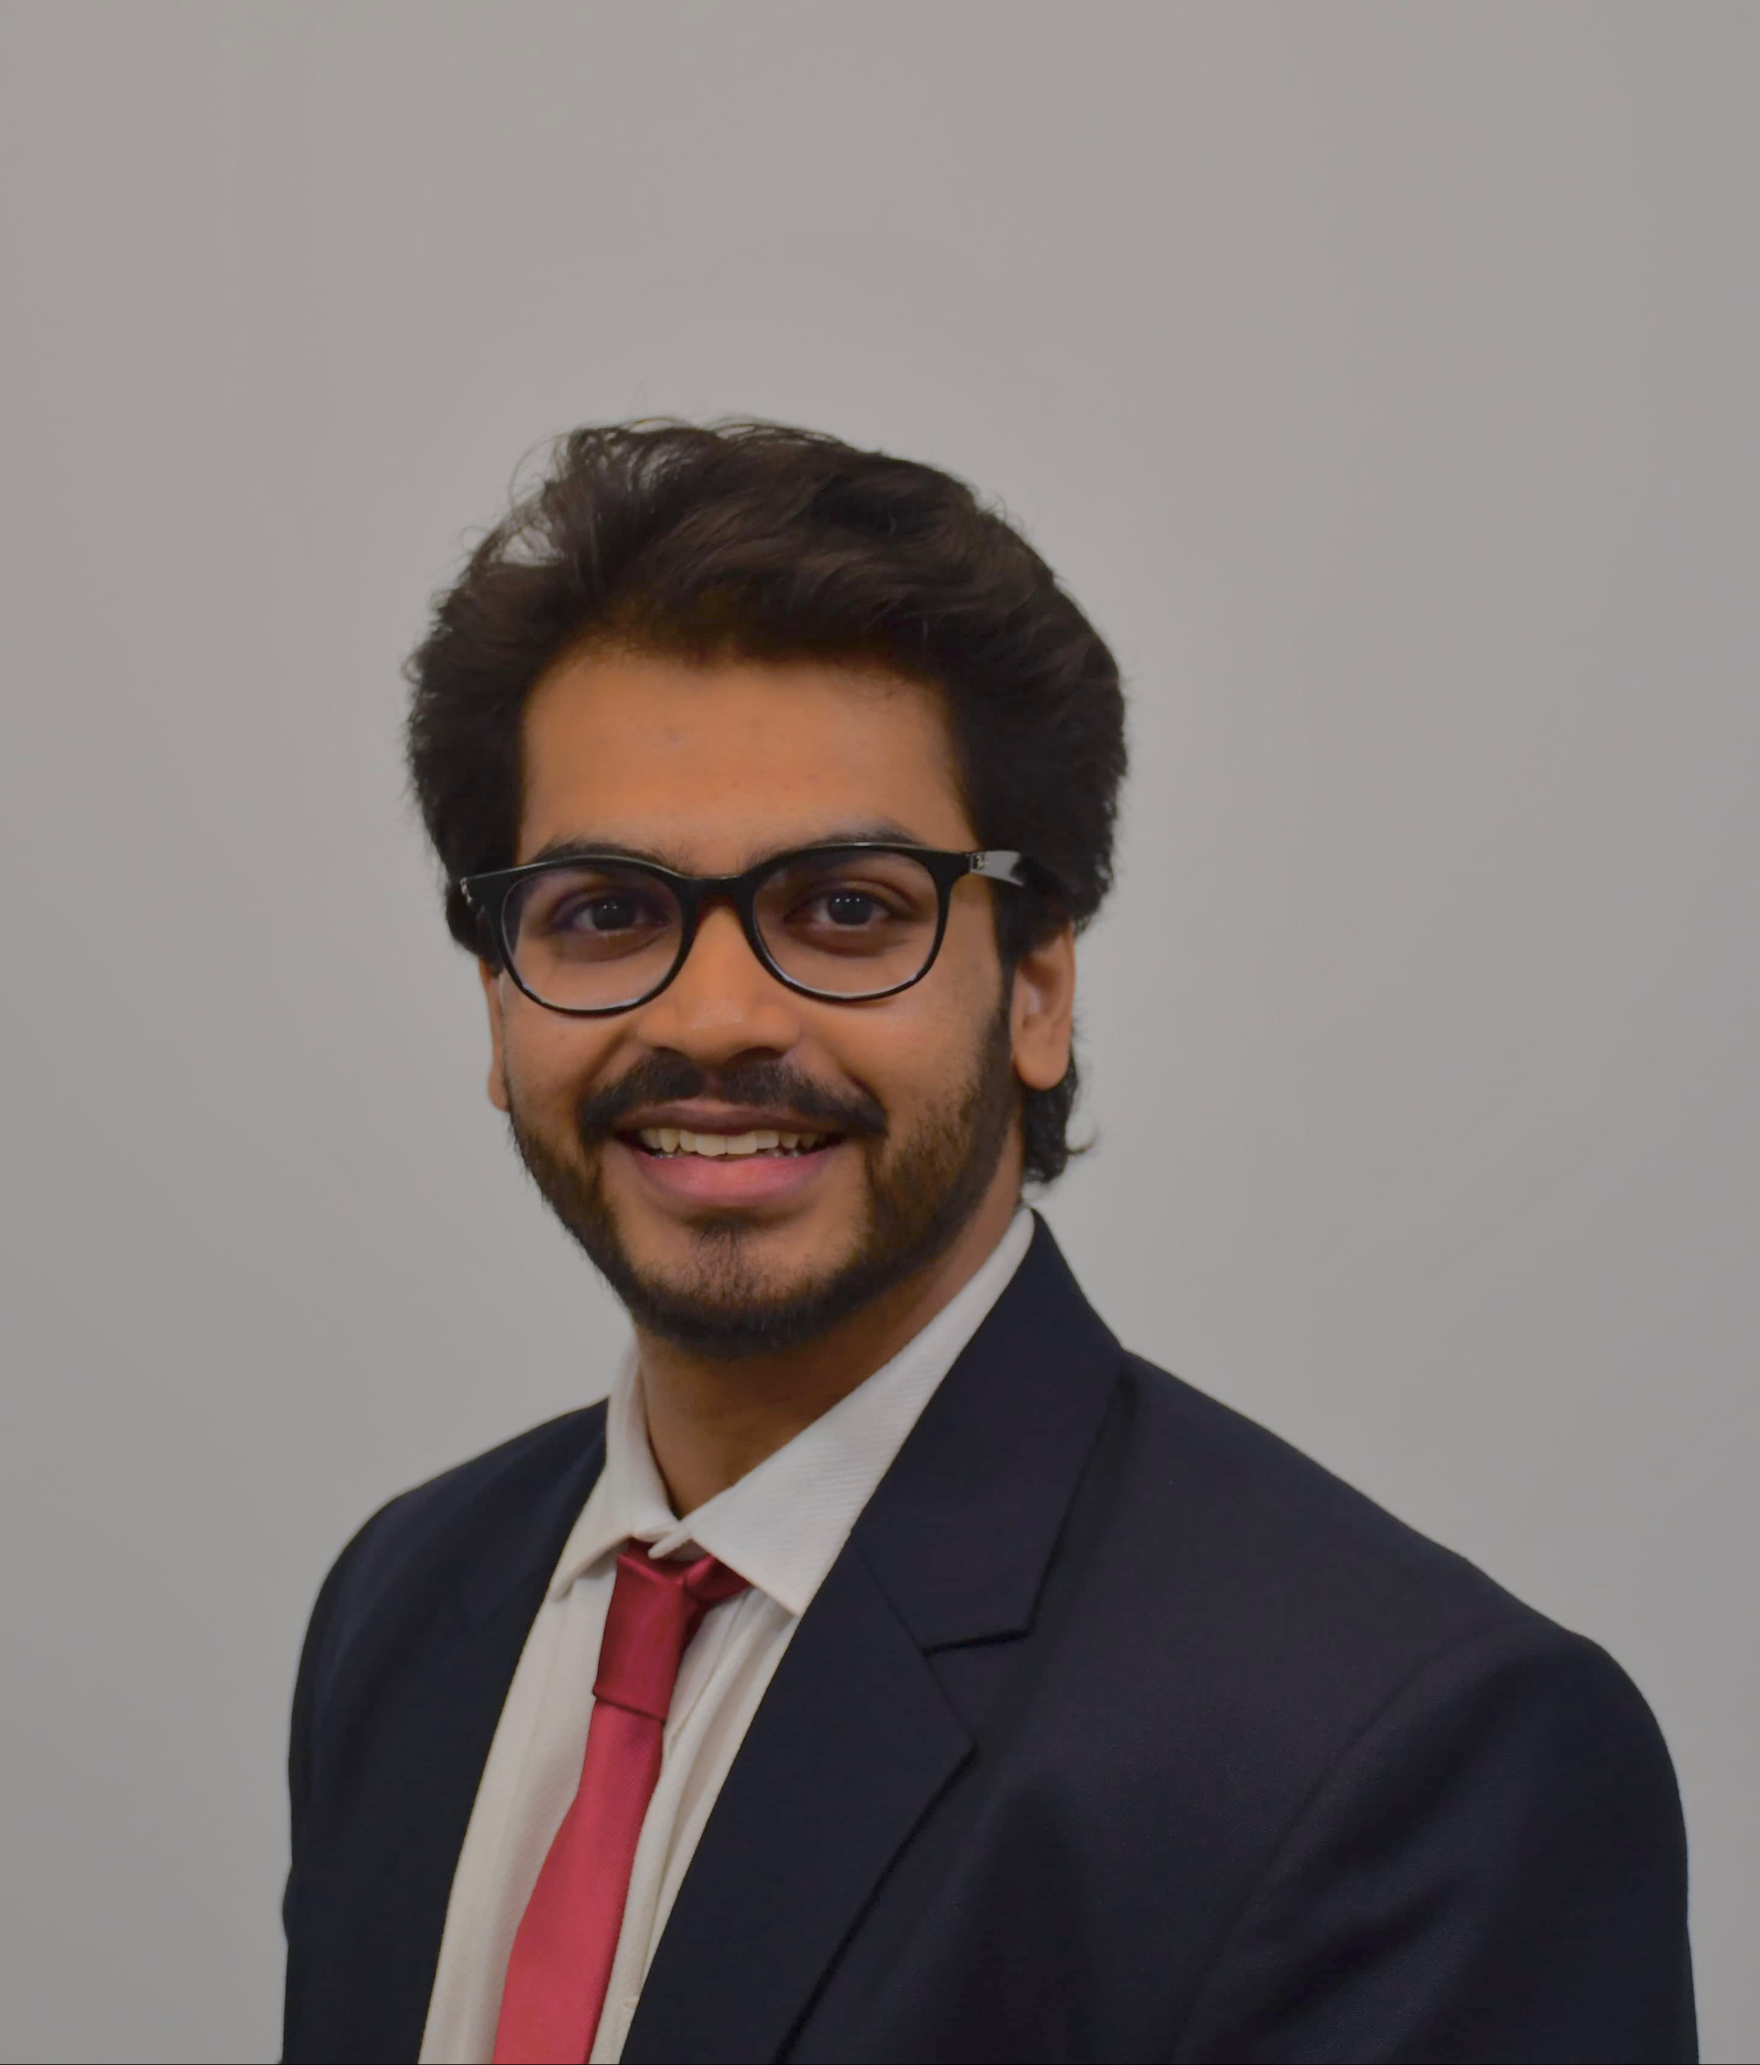
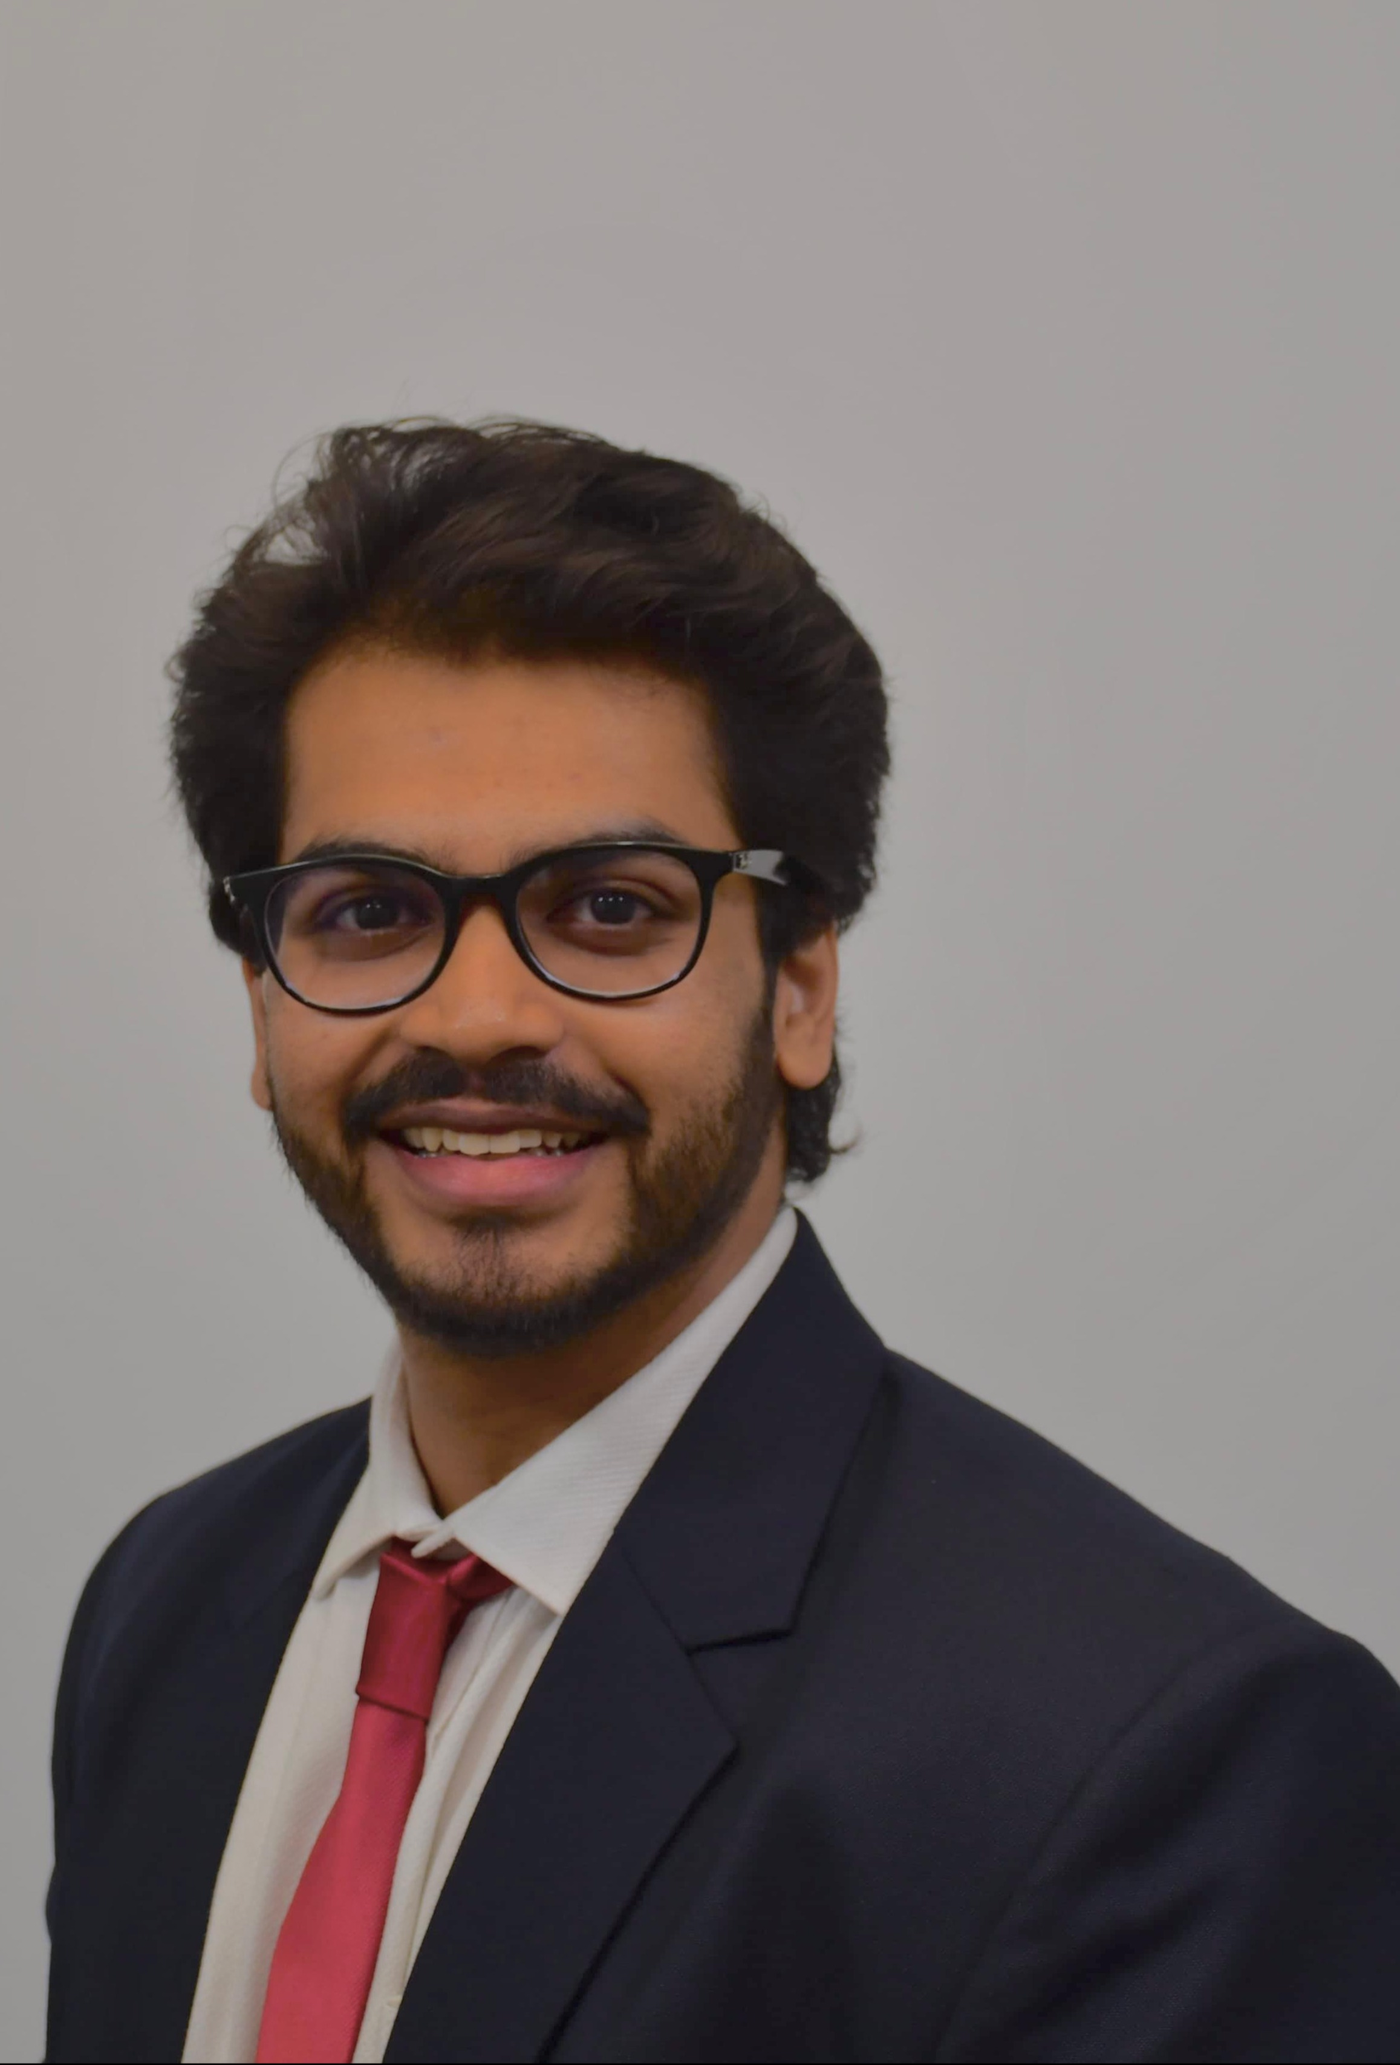
image crop, fixing bugs

diff --git a/people/arnabgupta.html b/people/arnabgupta.html
@@ -7,7 +7,7 @@ sitemap: false
 
 <div class="row">
   <div class="column">
-    <img alt="Arnab Gupta" title="Arnab Gupta" src="/images/arnabgupta.jpg" alt="Arnab Gupta" style="width:15em; border:none; border-bottom:0px">
+    <img alt="Arnab Gupta" title="Arnab Gupta" src="/images/ArnabGupta.jpg" alt="Arnab Gupta" style="width:15em; border:none; border-bottom:0px">
   </div>
   <div class="column">
     <p><b>Ph.D. Student</b>
@@ -19,12 +19,12 @@ sitemap: false
 
 
   <h3>Research</h3>
-  <p>My research interest lies at the interface of learning-based control and robotic systems. My master's work was focused on applying reinforcement learning (PGPE) to optimize motor commands exploring variable stiffness caudal fins on a bioinspired robotic swimmer. </p>
+  <p>My research interest lies at the interface of learning-based control and robotic systems. My master's work was focused on applying reinforcement learning to optimize motor commands exploring variable stiffness caudal fins on a bioinspired robotic swimmer. </p>
   <p>My doctoral work focuses on enhancing digital twin accuracy by improving sensing and estimation on medical and industrial robotic systems. I strive to design and program robotic systems to alleviate human effort and elevate quality of life.
   </p>
 
   <h3>Projects</h3>
-  <p><a href="https://arnabgupta.vercel.app/#featured-projects">Portfolio For All Mech Eng + Robotics Projects></a><p>
+  <p><a href="https://arnabgupta.vercel.app/#featured-projects">Portfolio For All Mech Eng + Robotics Projects</a><p>
 
   <h3>Education</h3>
   <p>B.S., Mechanical Engineering, Pennsylvania State University, 2024</p>
